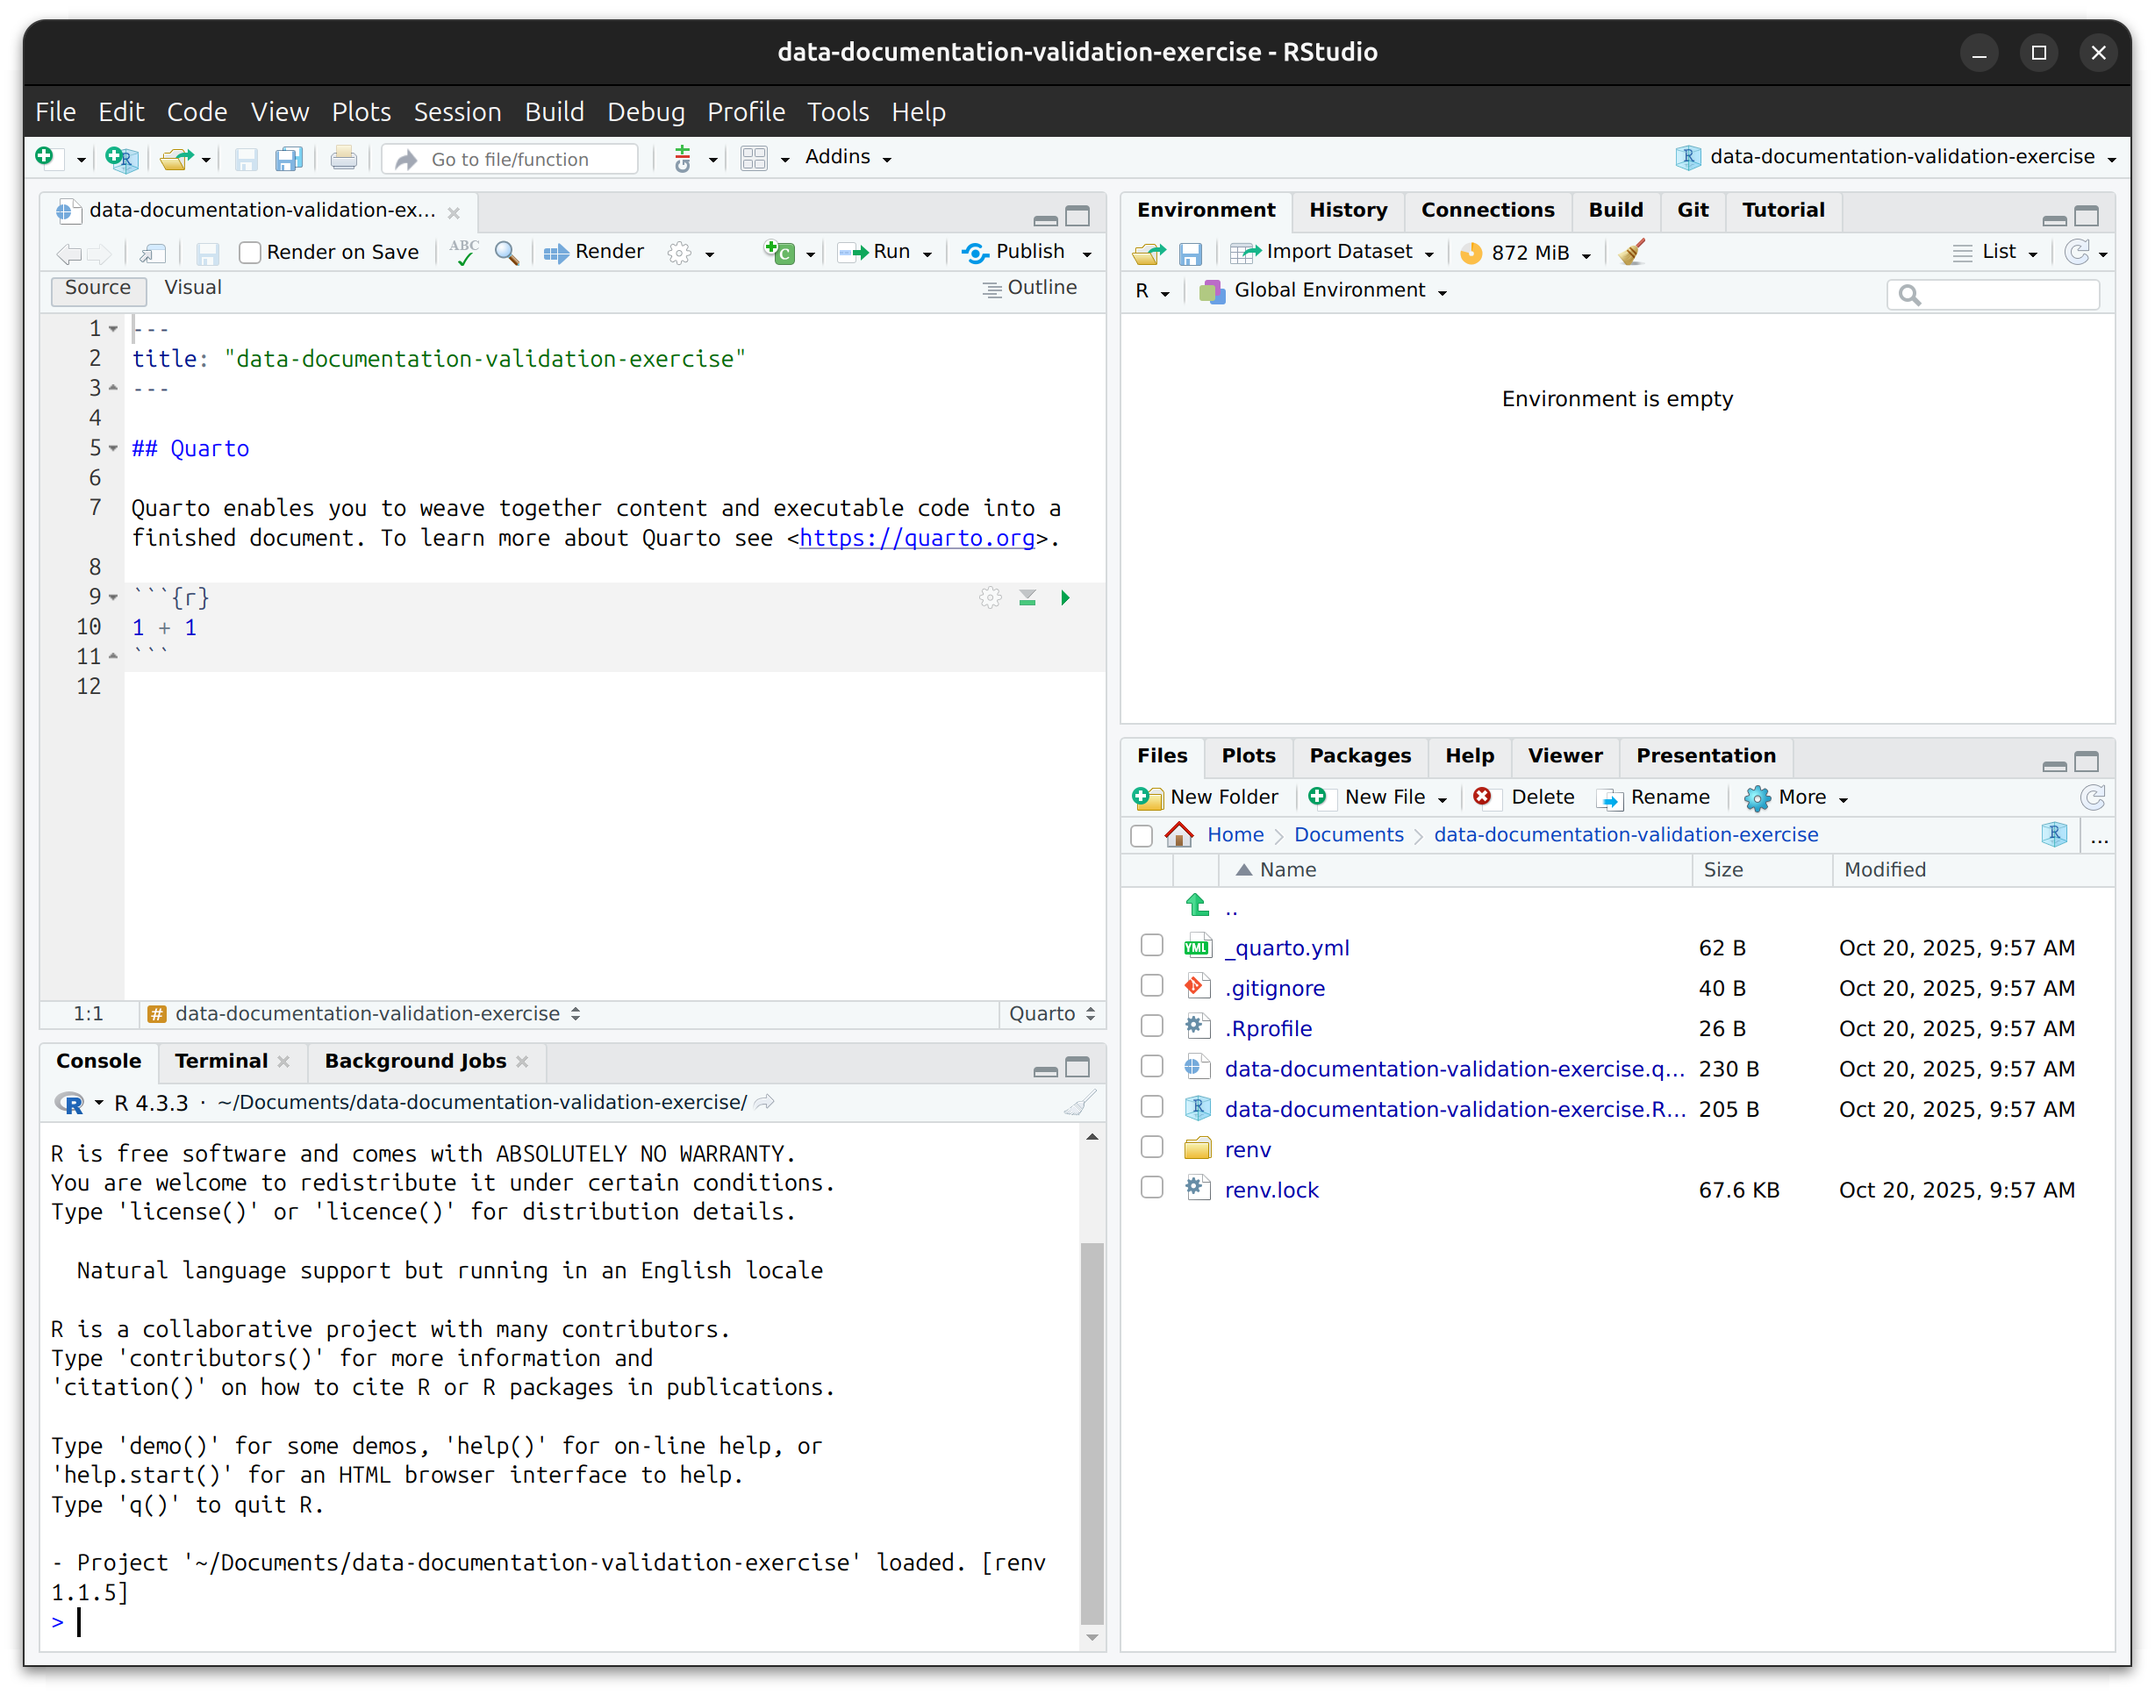
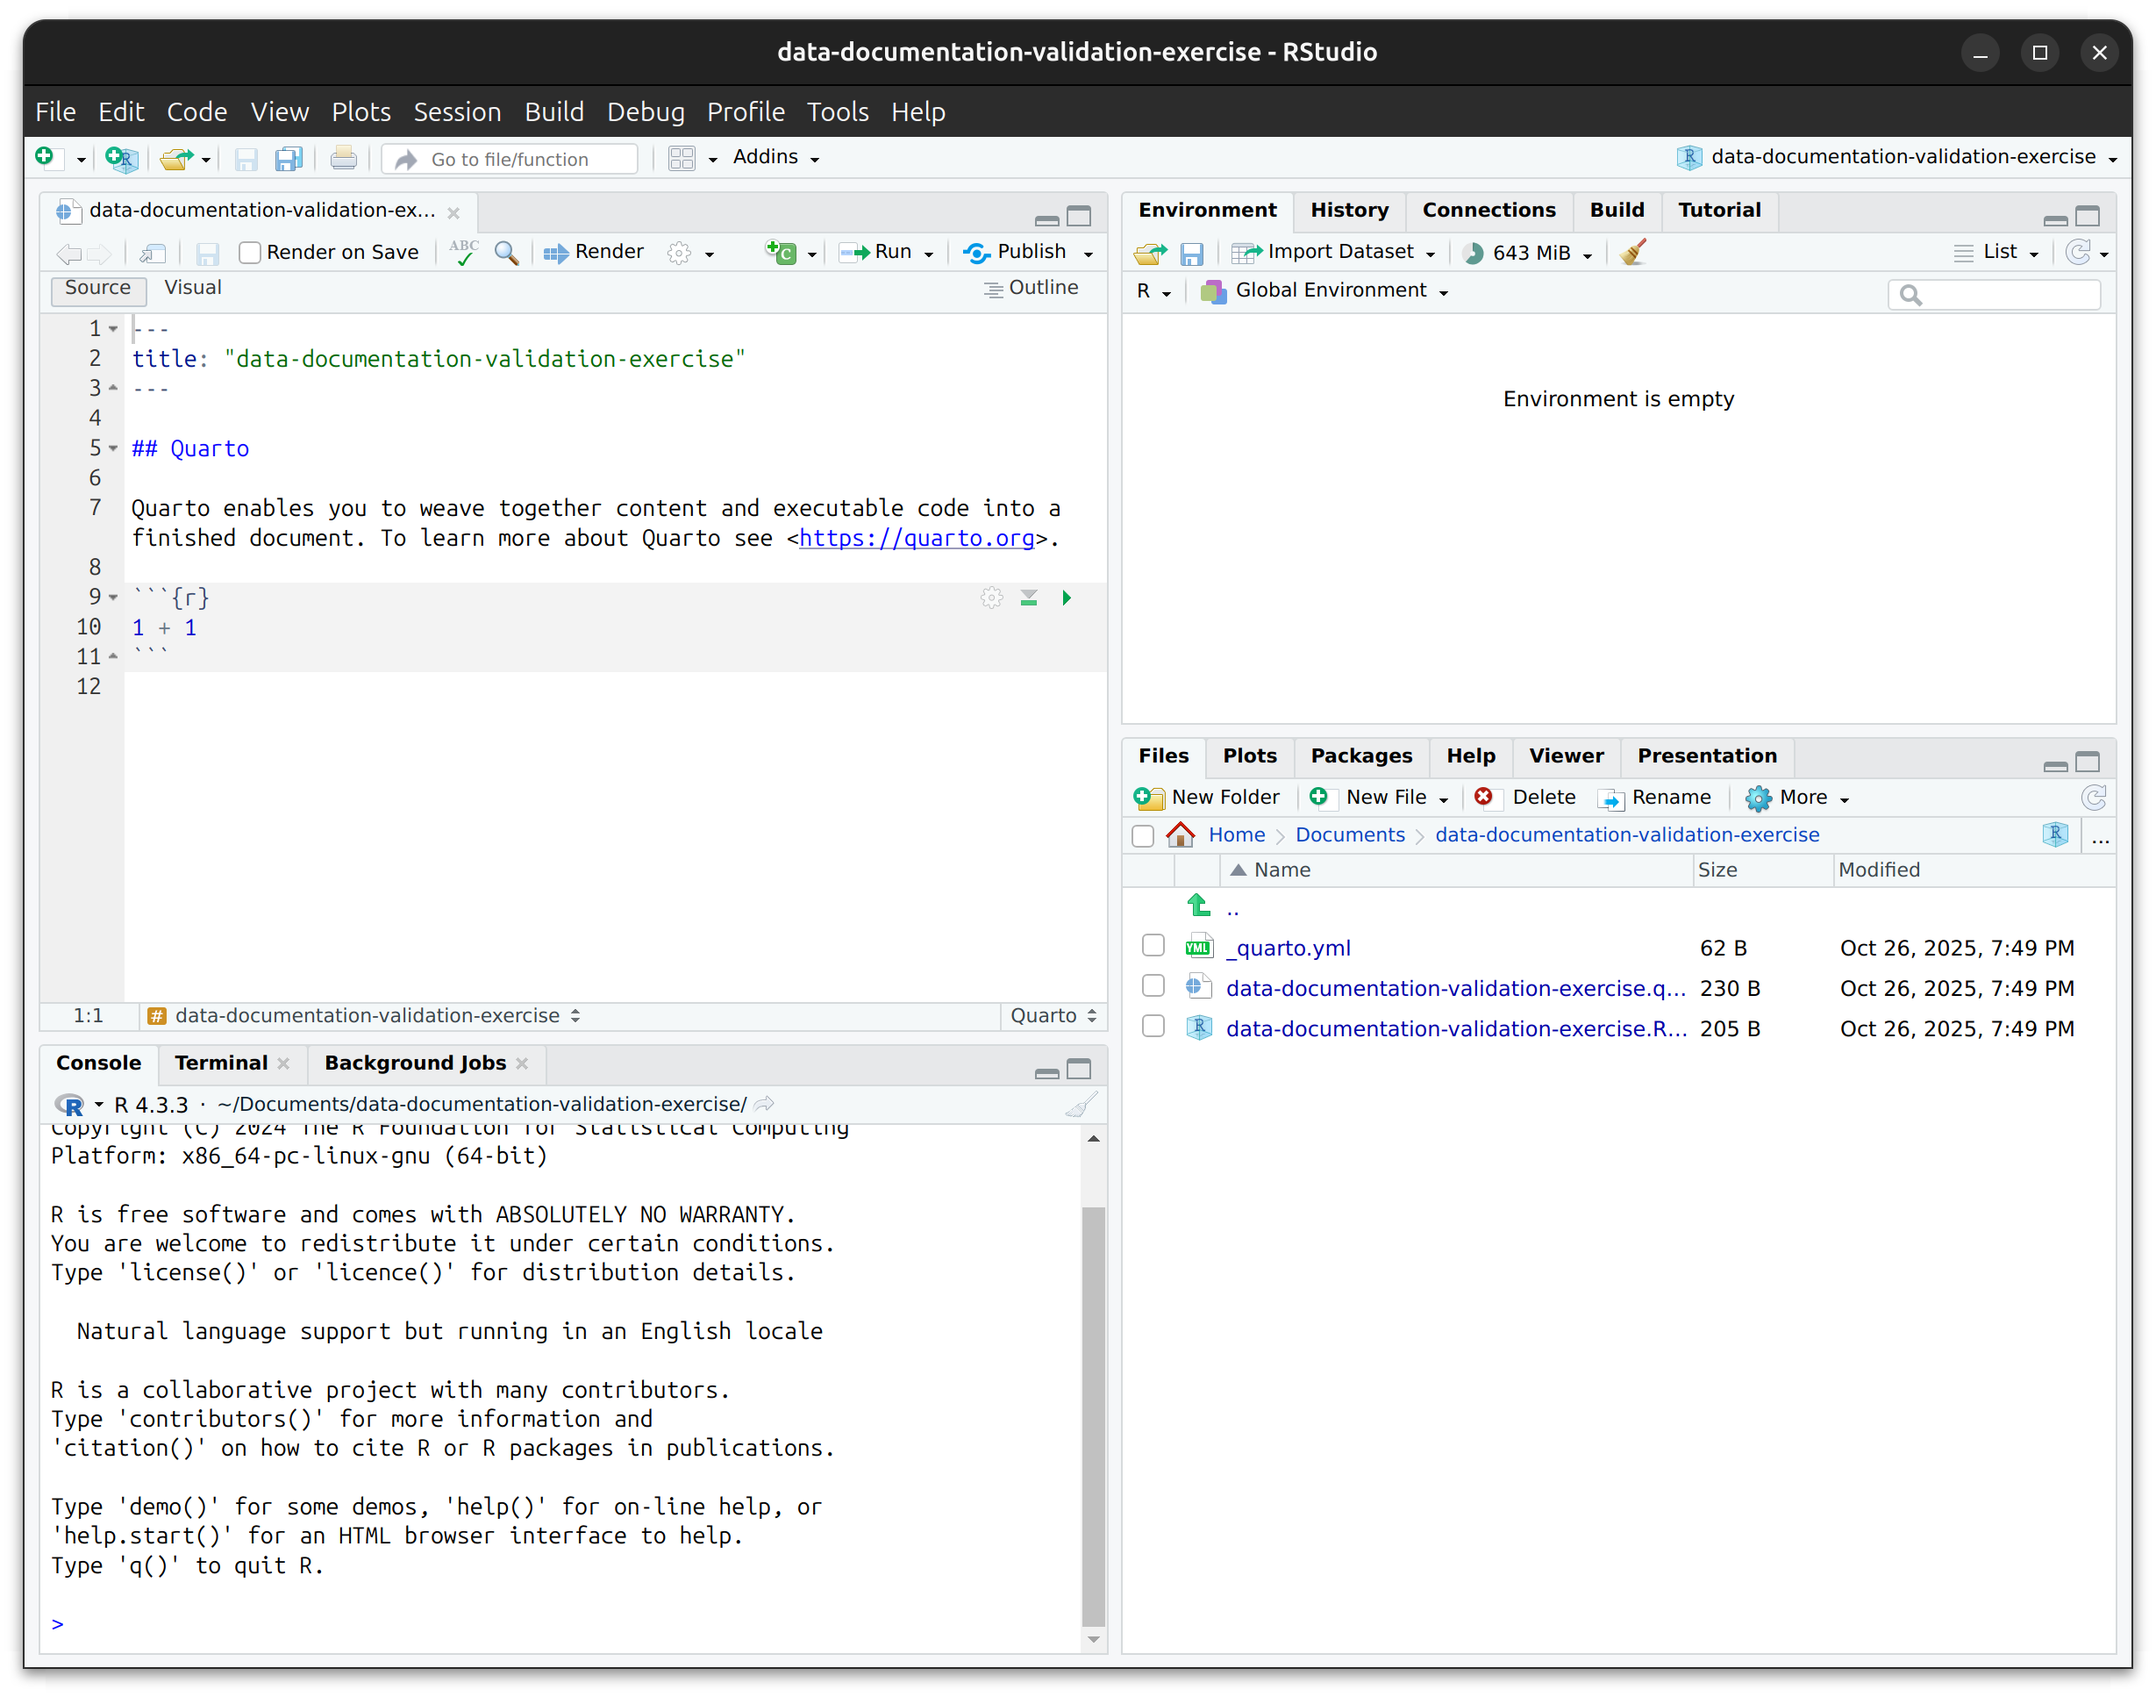
Built site for gh-pages

diff --git a/01-tutorial-setup/page1.html b/01-tutorial-setup/page1.html
@@ -349,7 +349,7 @@ pre > code.sourceCode > span > a:first-child::before { text-decoration: underlin
 </figure>
 </div>
 <p>Finally, enter the name of the directory where our report will be created in, for example <code>data-documentation-validation-exercise</code>.</p>
-<p>You can leave <em>Create a git repository</em> and <em>Use renv with this project</em> unchecked to keep things simple for this tutorial. TODO: Update the screenshots to remove checks for git and renv.</p>
+<p>You can leave <em>Create a git repository</em> and <em>Use renv with this project</em> unchecked to keep things simple for this tutorial.</p>
 <p>If you are already familiar with Markdown and Quarto, you can also uncheck the box <em>Use visual markdown editor</em>.</p>
 <div class="quarto-figure quarto-figure-center">
 <figure class="figure">
